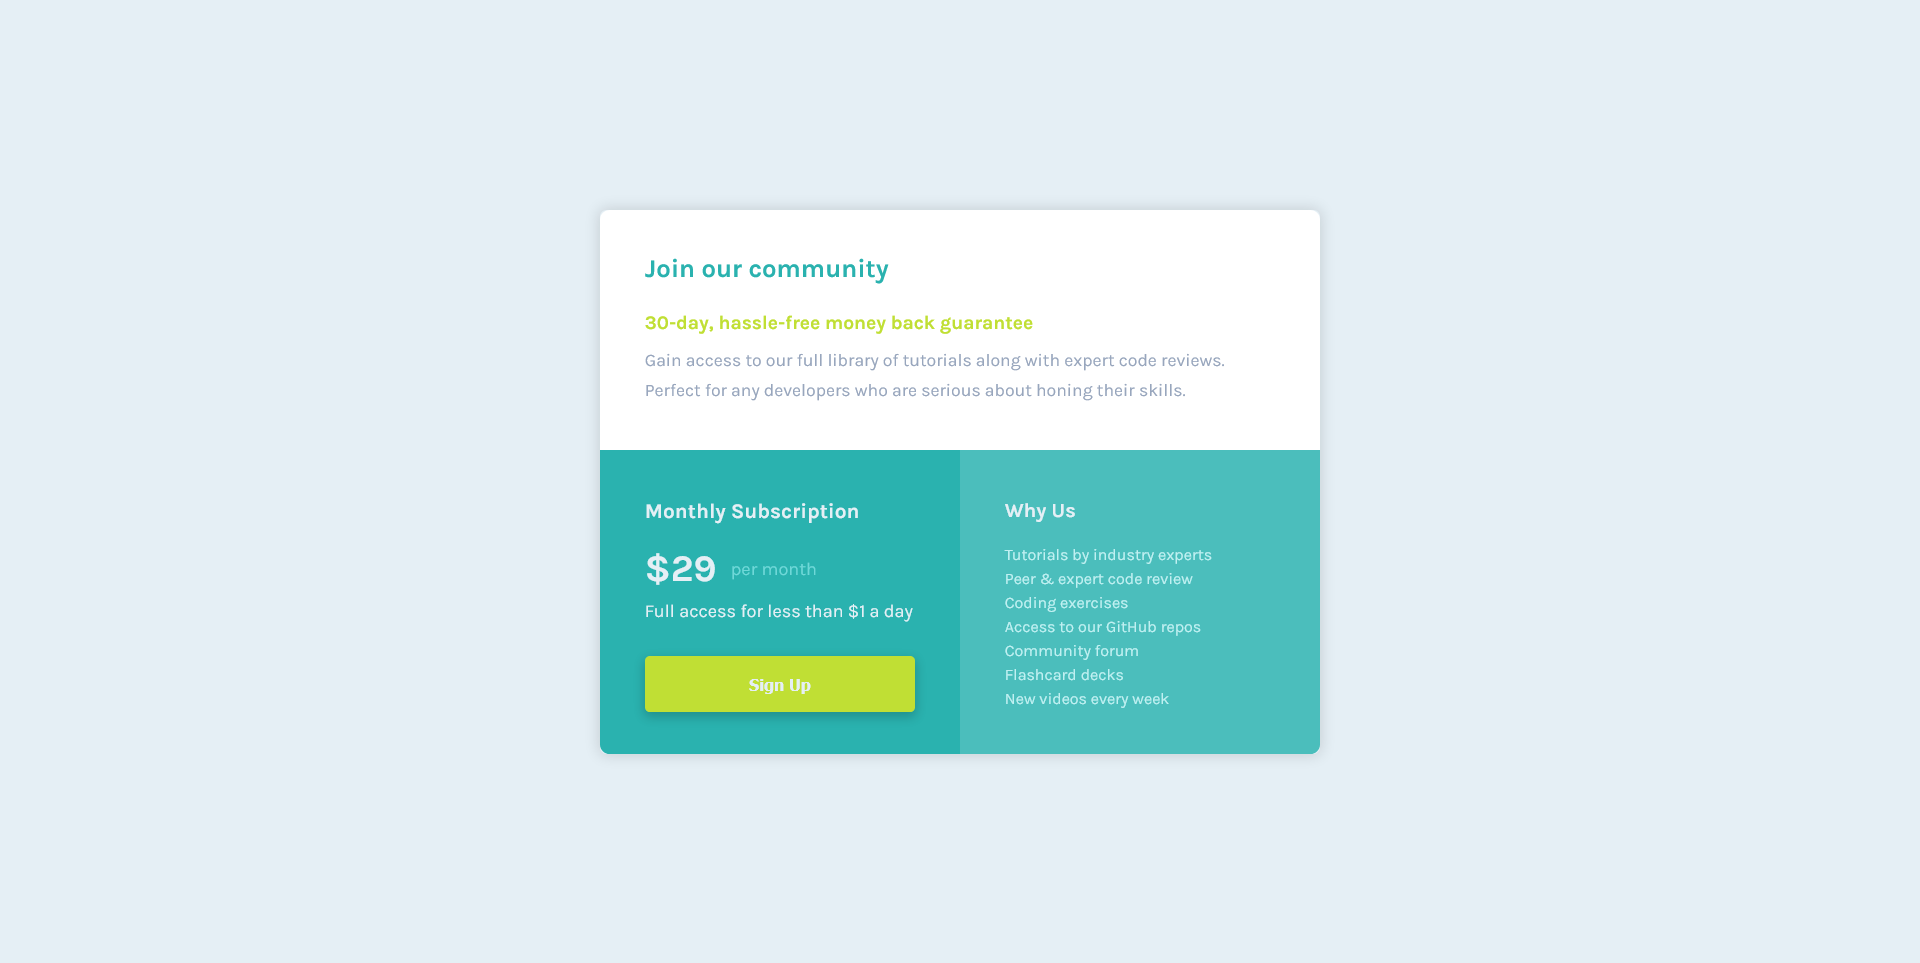
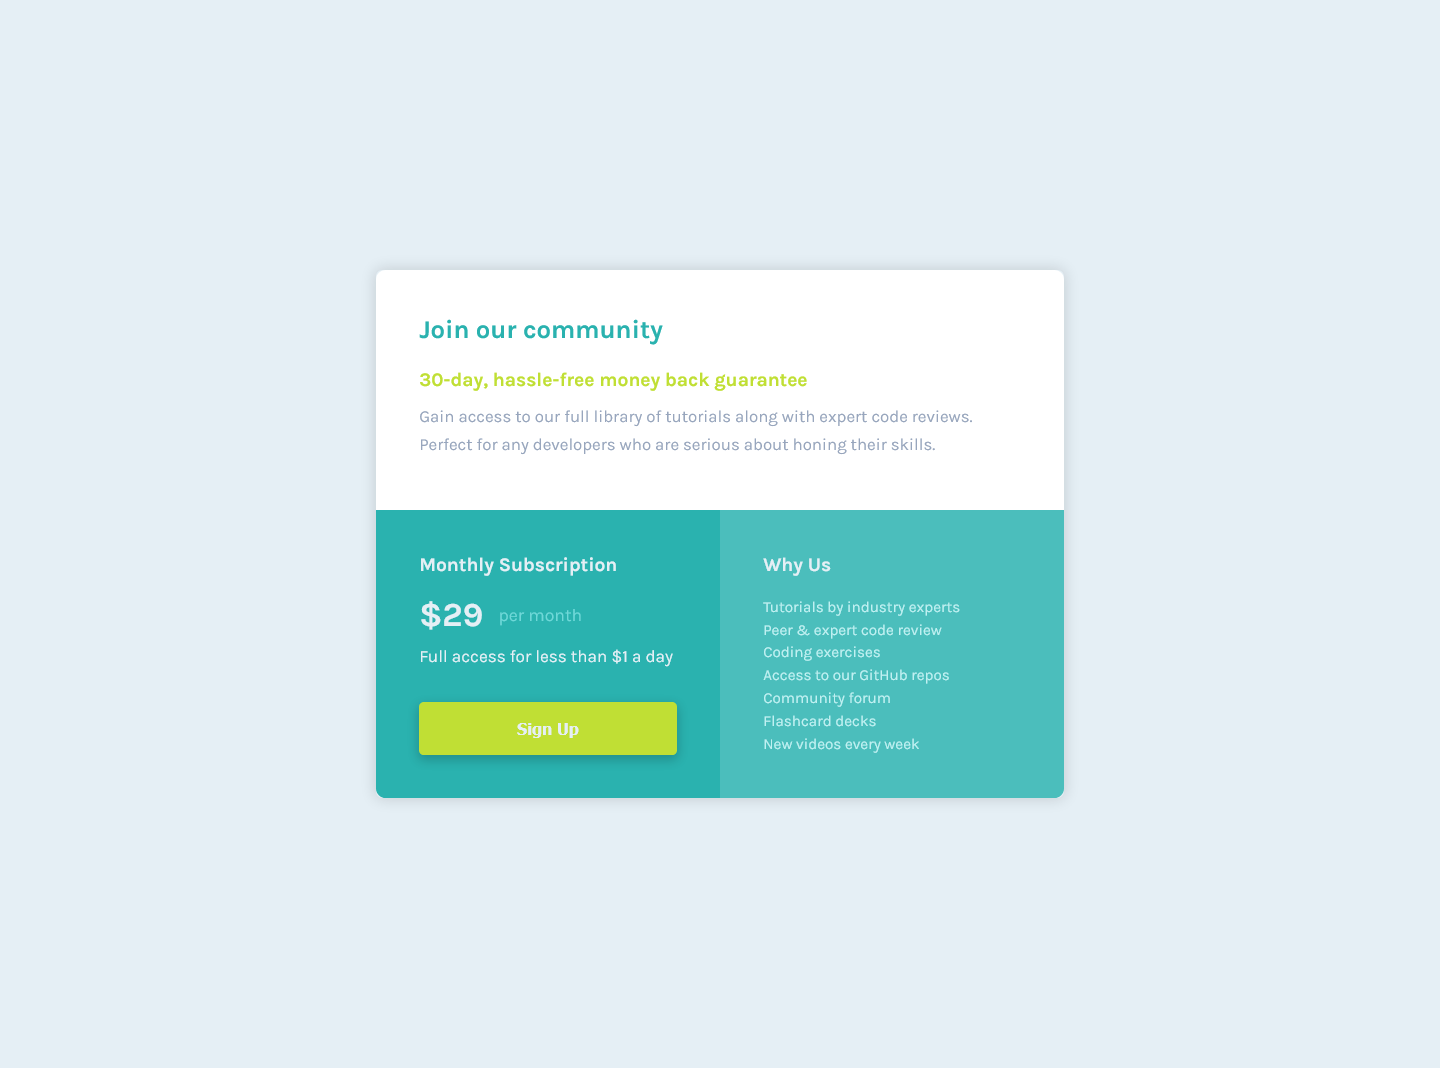
index.html y media-query.scss: actualizados

Changed region(s): [[0.25, 0.2181, 0.75, 0.81]]

diff --git a/scss/_media-query.scss b/scss/_media-query.scss
@@ -1,22 +1,22 @@
 @media (min-width: 811px) {
   .main {
     width: 90%;
-    max-width: 45rem;
+    max-width: 43rem;
   }
   .container {
     display: grid;
     grid-template-columns: repeat(4, 1fr);
-    grid-template-rows: 15rem 19rem;
+    grid-template-rows: 15rem 18rem;
   }
   .section {
     // Section Join
     &--join {
-      @include pd (2rem, 2.8rem);
+      @include pd (2.3rem, 2.7rem);
       border-top-right-radius: $desktop-border-radius;
       border-top-left-radius: $desktop-border-radius;
       grid-column: span 4;
       h2 {
-        @include mg (.8rem, 1.7rem);
+        @include mg (.5rem, 1.5rem);
         font-size: 1.6rem;
       }
       h3 {
@@ -25,47 +25,50 @@
       }
       p {
         @include mg (0, 0);
-        font-size: 1.1rem;
+        font-size: 1.05rem;
         line-height: 1.7;
       }
     }
     // Section Subscription
     &--subscription {
-      @include pd (2.1rem, 2.8rem);
+      @include pd (1.7rem, 2.7rem);
       border-bottom-left-radius: $desktop-border-radius;
       grid-column: 1 / 3;
       h2 {
-        font-size: 1.3rem;
+        margin-bottom: 1.2rem;
+        font-size: 1.2rem;
       }
       div {
         span:nth-child(1) {
-          margin-right: .9rem;
-          font-size: 2.35rem;
+          margin-right: .95rem;
+          font-size: 2.1rem;
         }
         span:nth-child(2) {
-          font-size: 1.13rem;
+          font-size: 1.1rem;
         }
       }
       p {
-        @include mg (.6rem, 2.15rem);
-        font-size: 1.13rem;
+        @include mg (.7rem, 2.3rem);
+        font-size: 1.07rem;
       }
       button {
-        height: 3.5rem;
+        height: 3.3rem;
         font-size: 1rem;
       }
     }
     // Section Why
     &--why {
-      @include pd (2.1rem, 2.8rem);
+      @include pd (1.7rem, 2.7rem);
       border-bottom-right-radius: $desktop-border-radius;
       border-bottom-left-radius: 0;
       grid-column: 3 / 5;
       h2 {
-        font-size: 1.25rem;
+        margin-bottom: 1.2rem;
+        font-size: 1.2rem;
       }
       ul {
-        margin-top: 1.3rem;
+        margin-top: 0;
+        font-size: .95rem;
       }
     }
   }

diff --git a/style.css b/style.css
@@ -91,19 +91,19 @@ ul {
 @media (min-width: 811px) {
   .main {
     width: 90%;
-    max-width: 45rem; }
+    max-width: 43rem; }
   .container {
     display: grid;
     grid-template-columns: repeat(4, 1fr);
-    grid-template-rows: 15rem 19rem; }
+    grid-template-rows: 15rem 18rem; }
   .section--join {
-    padding: 2rem 2.8rem;
+    padding: 2.3rem 2.7rem;
     border-top-right-radius: 0.6rem;
     border-top-left-radius: 0.6rem;
     grid-column: span 4; }
     .section--join h2 {
-      margin-top: 0.8rem;
-      margin-bottom: 1.7rem;
+      margin-top: 0.5rem;
+      margin-bottom: 1.5rem;
       font-size: 1.6rem; }
     .section--join h3 {
       margin-bottom: .7rem;
@@ -111,32 +111,35 @@ ul {
     .section--join p {
       margin-top: 0;
       margin-bottom: 0;
-      font-size: 1.1rem;
+      font-size: 1.05rem;
       line-height: 1.7; }
   .section--subscription {
-    padding: 2.1rem 2.8rem;
+    padding: 1.7rem 2.7rem;
     border-bottom-left-radius: 0.6rem;
     grid-column: 1 / 3; }
     .section--subscription h2 {
-      font-size: 1.3rem; }
+      margin-bottom: 1.2rem;
+      font-size: 1.2rem; }
     .section--subscription div span:nth-child(1) {
-      margin-right: .9rem;
-      font-size: 2.35rem; }
+      margin-right: .95rem;
+      font-size: 2.1rem; }
     .section--subscription div span:nth-child(2) {
-      font-size: 1.13rem; }
+      font-size: 1.1rem; }
     .section--subscription p {
-      margin-top: 0.6rem;
-      margin-bottom: 2.15rem;
-      font-size: 1.13rem; }
+      margin-top: 0.7rem;
+      margin-bottom: 2.3rem;
+      font-size: 1.07rem; }
     .section--subscription button {
-      height: 3.5rem;
+      height: 3.3rem;
       font-size: 1rem; }
   .section--why {
-    padding: 2.1rem 2.8rem;
+    padding: 1.7rem 2.7rem;
     border-bottom-right-radius: 0.6rem;
     border-bottom-left-radius: 0;
     grid-column: 3 / 5; }
     .section--why h2 {
-      font-size: 1.25rem; }
+      margin-bottom: 1.2rem;
+      font-size: 1.2rem; }
     .section--why ul {
-      margin-top: 1.3rem; } }
+      margin-top: 0;
+      font-size: .95rem; } }
